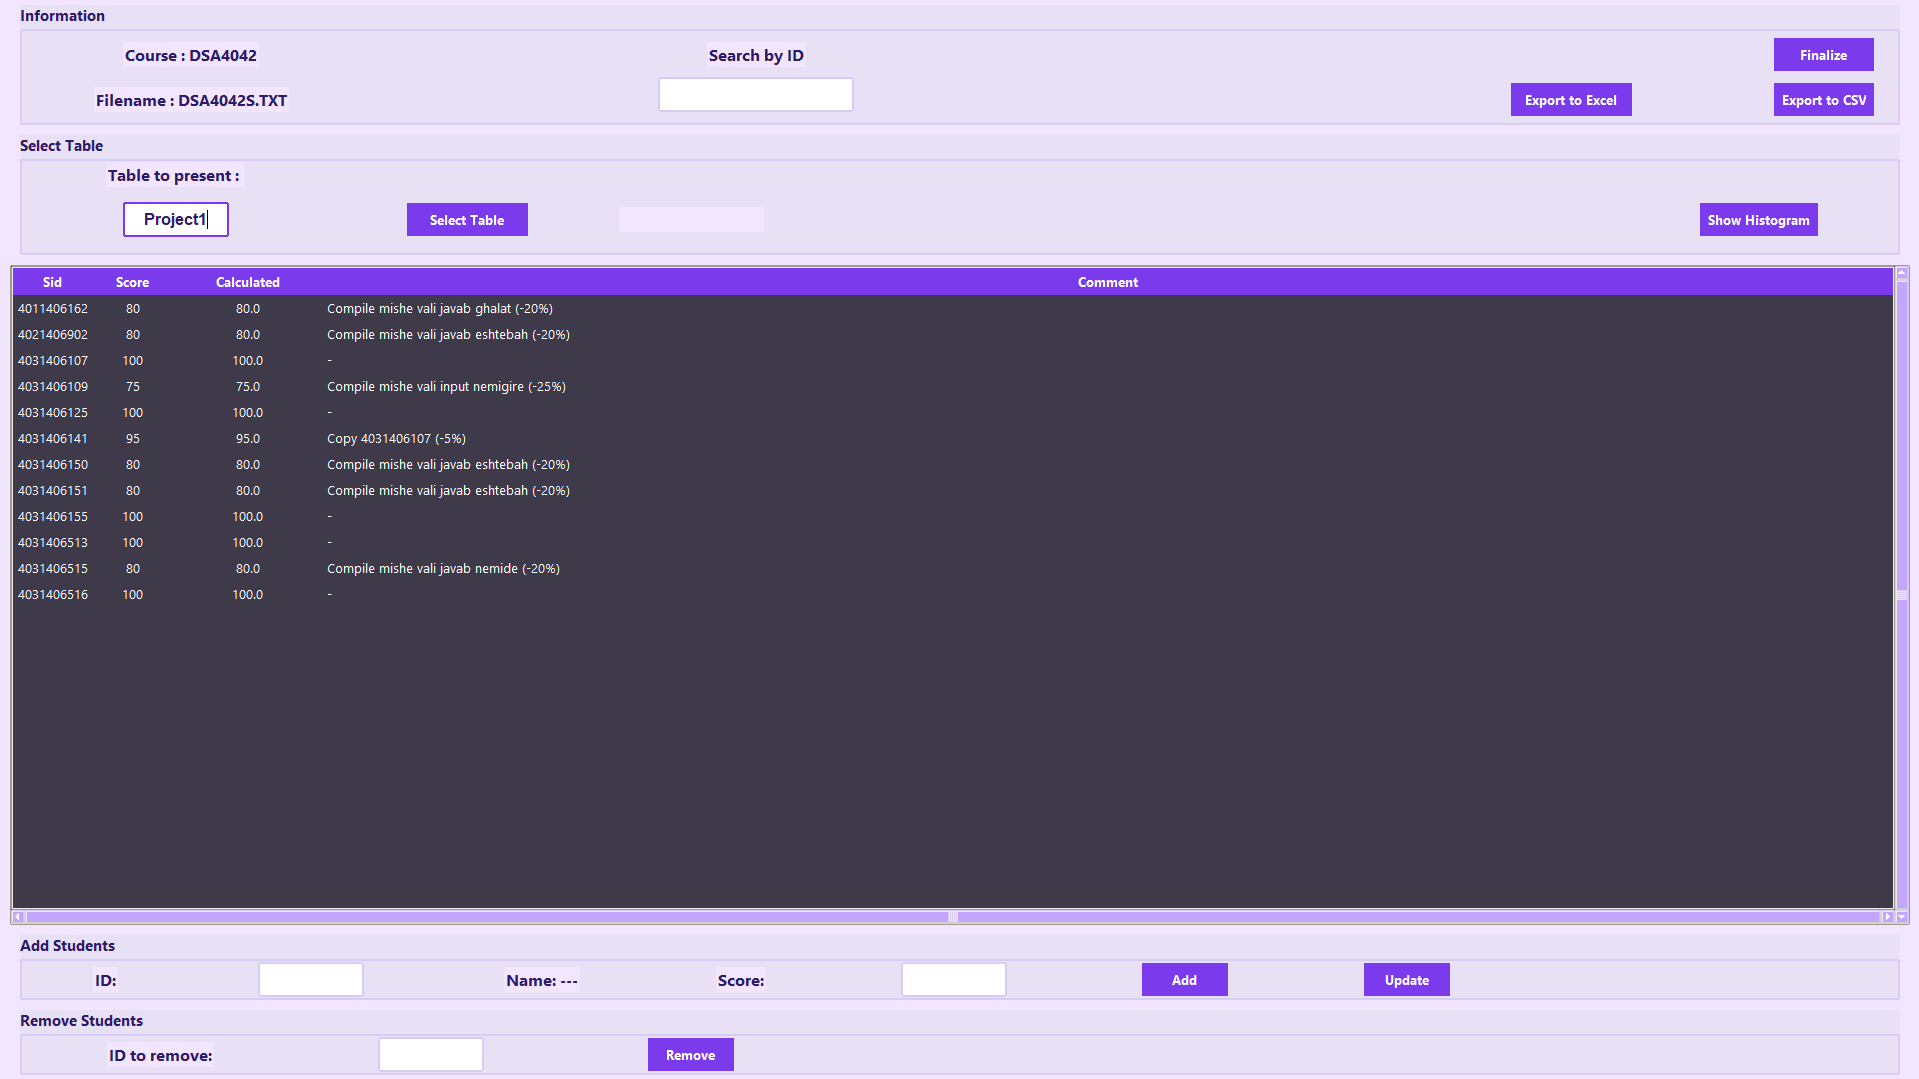
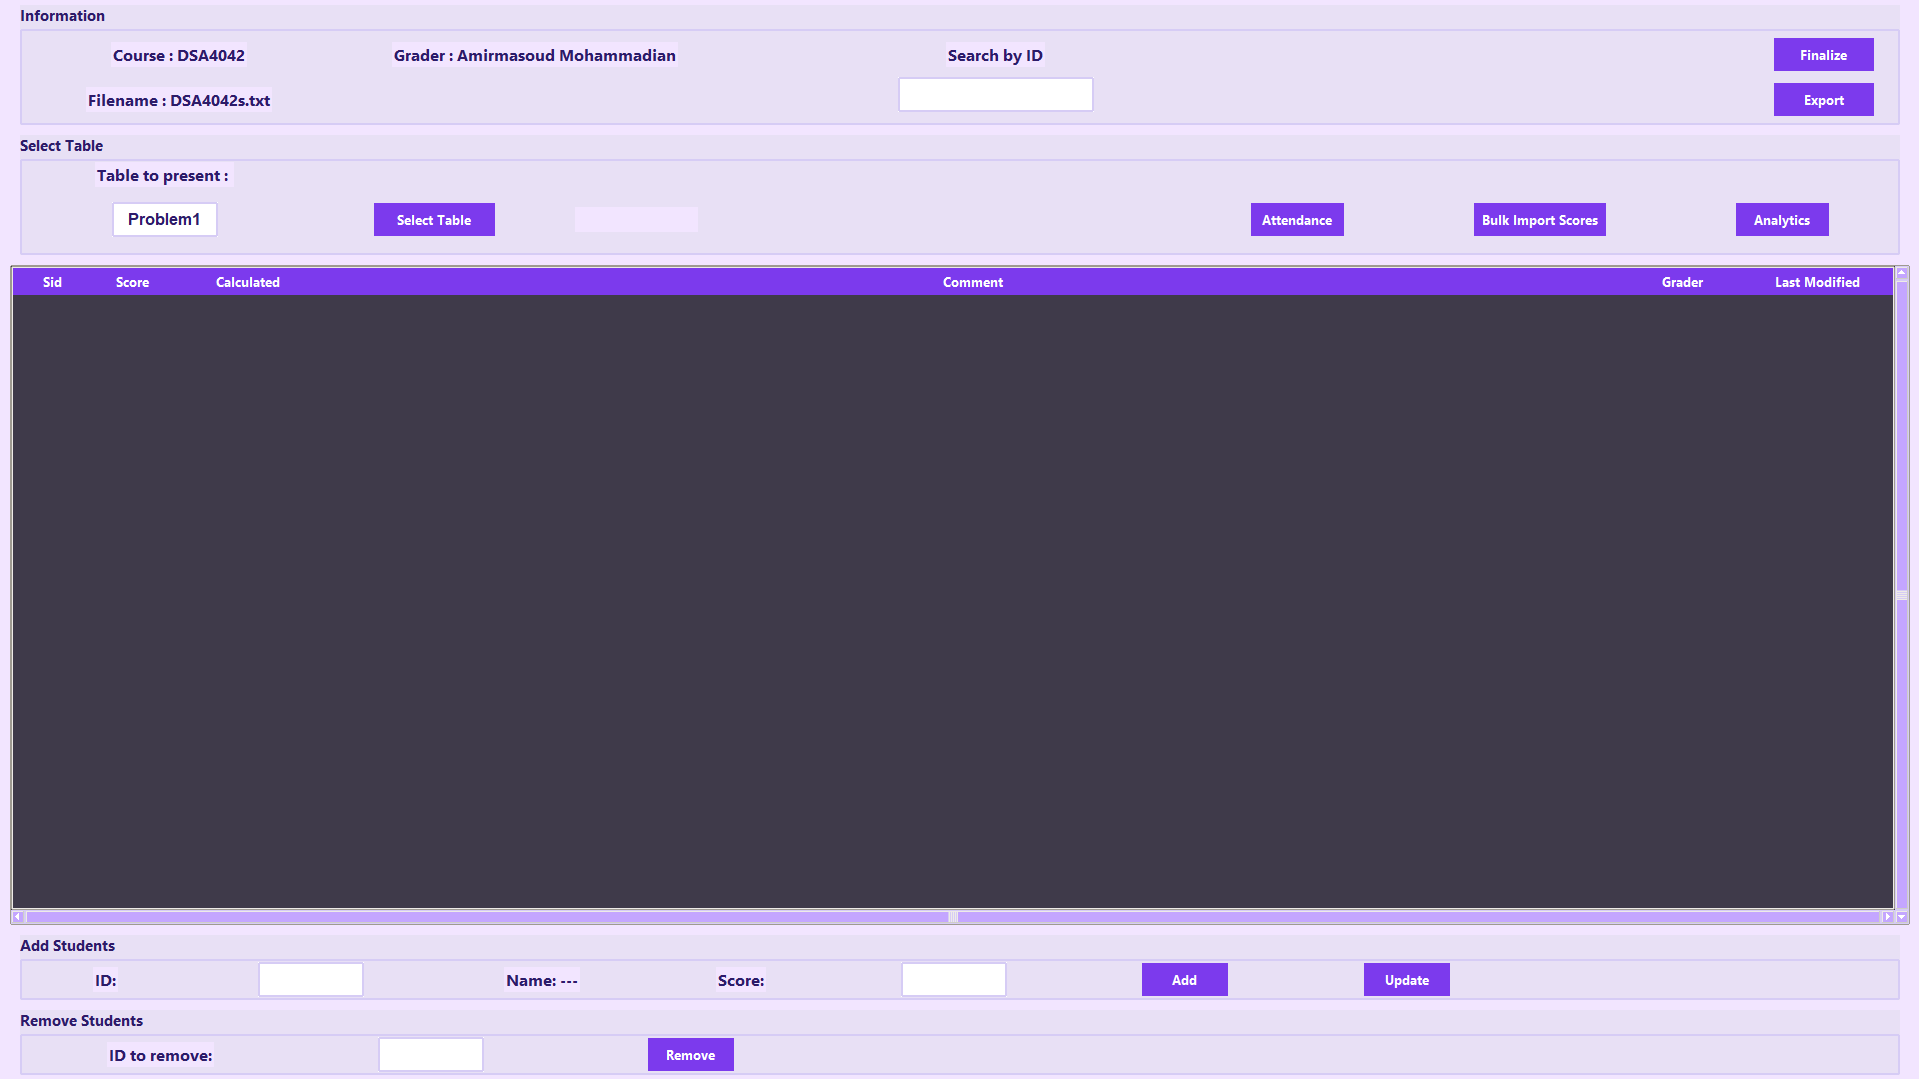
Updating the readmefile with new screenshots

diff --git a/README.md b/README.md
@@ -57,13 +57,13 @@ A desktop app for teaching assistants to manage class rosters, track and grade a
 
 </div>
 
-### Score histogram
+### Analytics Tab
 
 <div align="center">
 
-<img src="assets/screenshots/histogram.png">
+<img src="assets/screenshots/analytics.png">
 
-<em><p>Visualize the score distribution for the selected table.</p></em>
+<em><p>Analytics tab for more information of the data.</p></em>
 
 </div>
 
@@ -110,25 +110,48 @@ Firstname Lastname StudentID
 ## 📁 Project Structure
 
 ```text
-📁
+📁 
 ├── 📁 assets
+│   ├── 📁 fonts
+│   │   ├── 📄 Vazirmatn-Black.ttf
+│   │   ├── 📄 Vazirmatn-Bold.ttf
+│   │   ├── 📄 Vazirmatn-ExtraBold.ttf
+│   │   ├── 📄 Vazirmatn-ExtraLight.ttf
+│   │   ├── 📄 Vazirmatn-Light.ttf
+│   │   ├── 📄 Vazirmatn-Medium.ttf
+│   │   ├── 📄 Vazirmatn-Regular.ttf
+│   │   ├── 📄 Vazirmatn-SemiBold.ttf
+│   │   └── 📄 Vazirmatn-Thin.ttf
 │   └── 📁 screenshots
+│       ├── 🖼 analytics.png
+│       ├── 🖼 enter_course.png
+│       ├── 🖼 esc_menu.png
+│       ├── 🖼 finalize.png
+│       ├── 🖼 main_window.png
+│       ├── 🖼 select_rouster.png
+│       └── 🖼 settings_menu.png
 ├── 📁 data
-│   └── 📁 rosters
+│   ├── 📁 rosters
+│   └── 📁 score_imports
 ├── 📁 db
 │   ├── 🐍 __init__.py
+│   ├── 🐍 analytics_repository.py
 │   ├── 🐍 assessment_repository.py
+│   ├── 🐍 attendance_repository.py
 │   ├── 🐍 connection.py
 │   ├── 🐍 course_repository.py
 │   ├── 🐍 database.py
 │   ├── 🐍 models.py
-│   └── 🐍 student_repository.py
+│   ├── 🐍 student_repository.py
+│   └── 🐍 ta_repository.py
 ├── 📁 logs
 ├── 📁 services
 │   ├── 🐍 __init__.py
 │   ├── 🐍 export_service.py
 │   ├── 🐍 roster_import_service.py
-│   └── 🐍 stats_service.py
+│   ├── 🐍 score_import_service.py
+│   ├── 🐍 stats_service.py
+│   └── 🐍 sync_service.py
 ├── 📁 settings
 │   └── 📝 theme_config.txt
 ├── 📁 ui
@@ -138,10 +161,16 @@ Firstname Lastname StudentID
 │   │   └── 🐍 table_view.py
 │   ├── 📁 windows
 │   │   ├── 🐍 __init__.py
+│   │   ├── 🐍 analytics_window.py
+│   │   ├── 🐍 attendance_window.py
 │   │   ├── 🐍 comment_window.py
 │   │   ├── 🐍 course_setup_window.py
-│   │   ├── 🐍 histogram_window.py
+│   │   ├── 🐍 export_window.py
+│   │   ├── 🐍 score_import_window.py
 │   │   ├── 🐍 settings_window.py
+│   │   ├── 🐍 shortcuts_window.py
+│   │   ├── 🐍 sync_window.py
+│   │   ├── 🐍 ta_select_window.py
 │   │   └── 🐍 update_window.py
 │   ├── 🐍 __init__.py
 │   ├── 🐍 main_window.py
